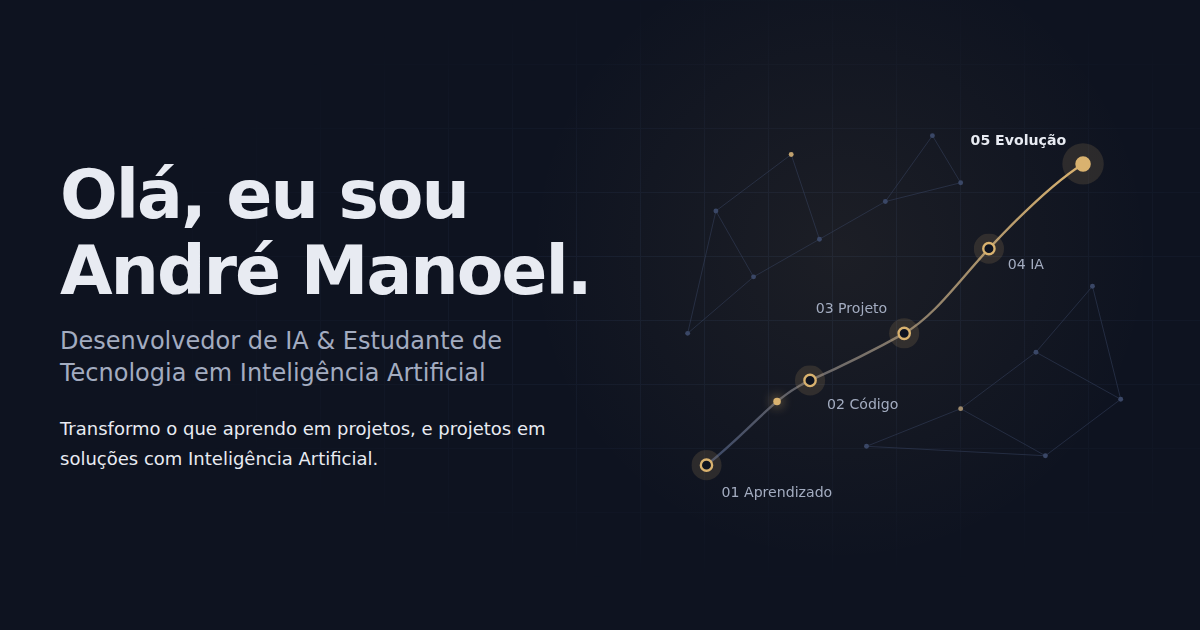
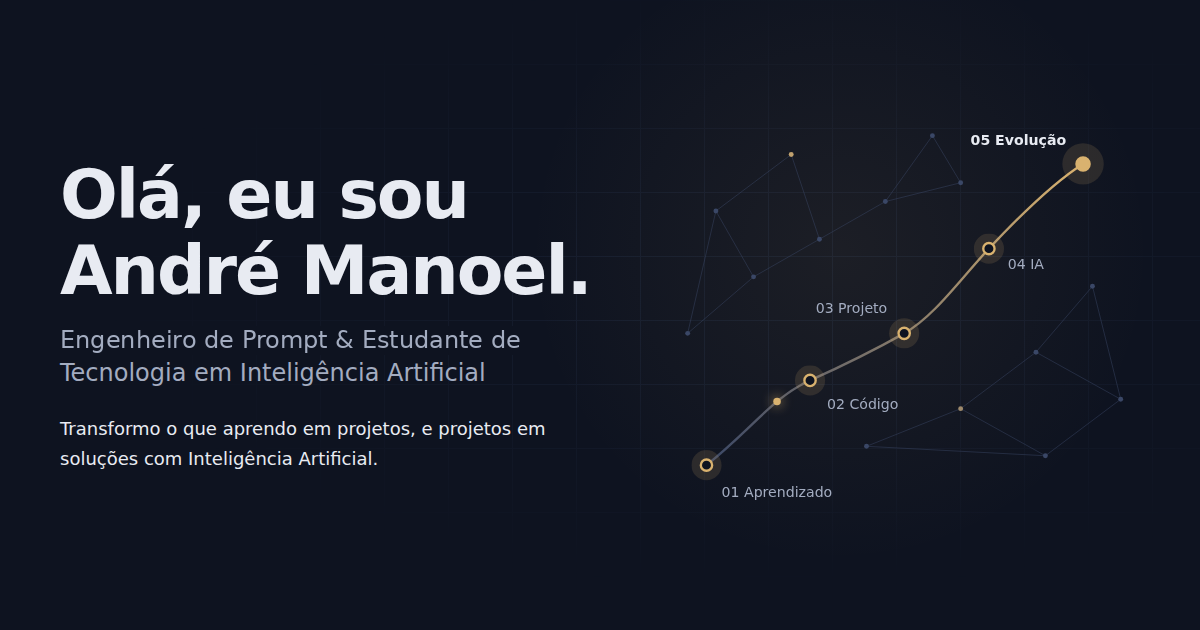
Troca "Desenvolvedor de IA" por "Engenheiro de Prompt" (#2)
Claude-Session: https://claude.ai/code/session_01GHiDC6XocZJ3QfYz17nS7s

Changed region(s): [[0.0308, 0.5127, 0.4317, 0.573]]

diff --git a/index.html b/index.html
@@ -5,7 +5,7 @@
   <meta name="viewport" content="width=device-width, initial-scale=1">
 
   <!-- SEO -->
-  <title>André Manoel | Desenvolvedor de IA</title>
+  <title>André Manoel | Engenheiro de Prompt</title>
   <meta name="description" content="Portfólio de André Manoel, estudante de Tecnologia em Inteligência Artificial e desenvolvedor de soluções com IA, Python, APIs e Machine Learning.">
   <meta name="author" content="André Manoel dos Santos">
   <meta name="theme-color" content="#0E1320">
@@ -13,7 +13,7 @@
   <!-- Open Graph (troque a URL depois de publicar no GitHub Pages) -->
   <meta property="og:type" content="website">
   <meta property="og:locale" content="pt_BR">
-  <meta property="og:title" content="André Manoel | Desenvolvedor de IA">
+  <meta property="og:title" content="André Manoel | Engenheiro de Prompt">
   <meta property="og:description" content="Estudante de Tecnologia em Inteligência Artificial construindo projetos com Python, APIs e IA generativa.">
   <meta property="og:image" content="assets/og-image.png">
   <meta property="og:url" content="https://andrems312.github.io/">
@@ -75,7 +75,7 @@
           <h1 id="hero-title" class="hero-title">
             Olá, eu sou André&nbsp;Manoel.
           </h1>
-          <p class="hero-role">Desenvolvedor de IA &amp; Estudante de Tecnologia em Inteligência Artificial</p>
+          <p class="hero-role">Engenheiro de Prompt &amp; Estudante de Tecnologia em Inteligência Artificial</p>
 
           <p class="hero-lead">
             Transformo o que aprendo em projetos, e projetos em soluções com Inteligência Artificial.
@@ -412,7 +412,7 @@
     <div class="container footer-inner">
       <div>
         <p class="footer-name">André Manoel dos Santos</p>
-        <p class="footer-role">Desenvolvedor de IA &amp; Estudante de Tecnologia em Inteligência Artificial.</p>
+        <p class="footer-role">Engenheiro de Prompt &amp; Estudante de Tecnologia em Inteligência Artificial.</p>
       </div>
       <ul class="footer-links">
         <li><a href="https://github.com/andrems312" target="_blank" rel="noopener noreferrer">GitHub<span class="sr-only"> (abre em nova aba)</span></a></li>
